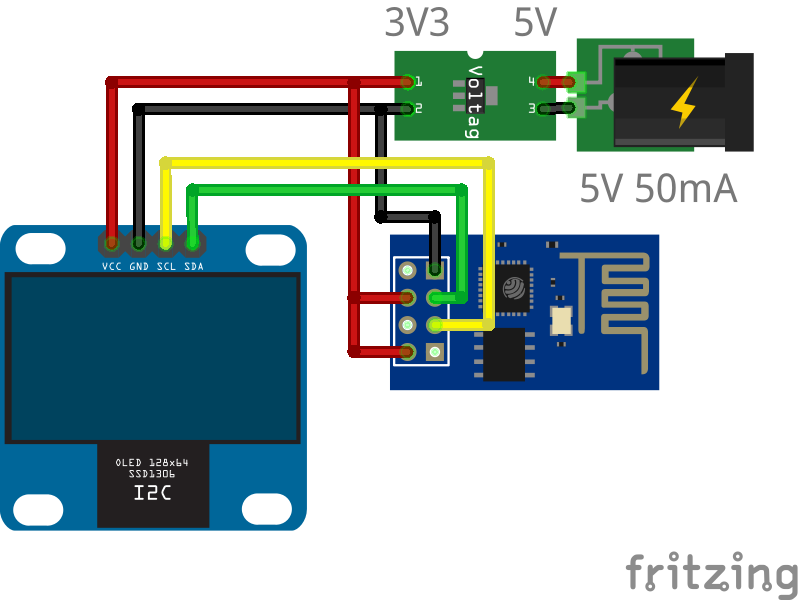
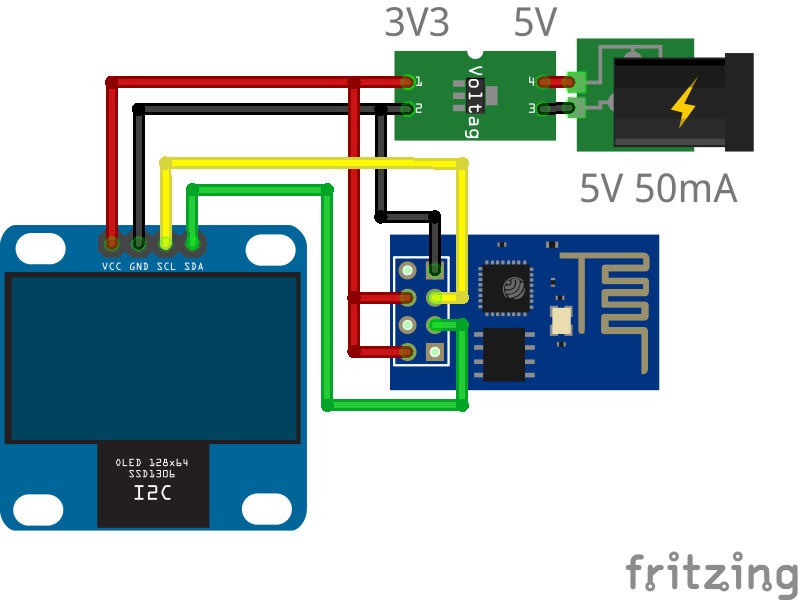
NodeMCU

Changed region(s): [[0.391, 0.24, 0.6316, 0.69]]

diff --git a/ESP8266/ESP8266_oled_spectrum_ssd1306/README.md b/ESP8266/ESP8266_oled_spectrum_ssd1306/README.md
@@ -16,6 +16,10 @@ Connect OLED to ESP8266 as shown on the picture.
 
 ![ESP8266_oled_spectrum_ssd1306_scheme](./fritzing-scheme/ESP8266_oled_spectrum_ssd1306_bb.png)
 
+Also you can take a list of AP's via virtual COM-port (when you use a UART-TTL with ESP-01 or NodeMCU).
+
+![ESP8266_oled_spectrum_ssd1306_photo](./pics/ESP8266_oled_spectrum_ssd1306_3.png)
+
 ## ESP8266
 
 Install [ESP8266](http://esp8266.ru/arduino-ide-esp8266/#fast-start) (Russian) libraries in Arduino EDI. This scanner based on standard WiFiScan from SDK and [Driver for the SSD1306 based 128x64 pixel OLED display](https://github.com/squix78/esp8266-oled-ssd1306) written by Daniel Eichhorn.
@@ -41,3 +45,7 @@ ESP8266 does not have 5V input supply then we have to use an additional voltage 
 The prototype is made with plug-in modules for debugging convenience. Additionally, you can display the COM-port connectors (Rx, Tx, GND) to read odnovremennoego list of networks.
 
 ![ESP8266_oled_spectrum_ssd1306_photo](./pics/ESP8266_oled_spectrum_ssd1306_2.png)
+
+Or use NodeMCU card.
+
+![ESP8266_oled_spectrum_ssd1306_photo](./pics/ESP8266_oled_spectrum_ssd1306_4.png)
